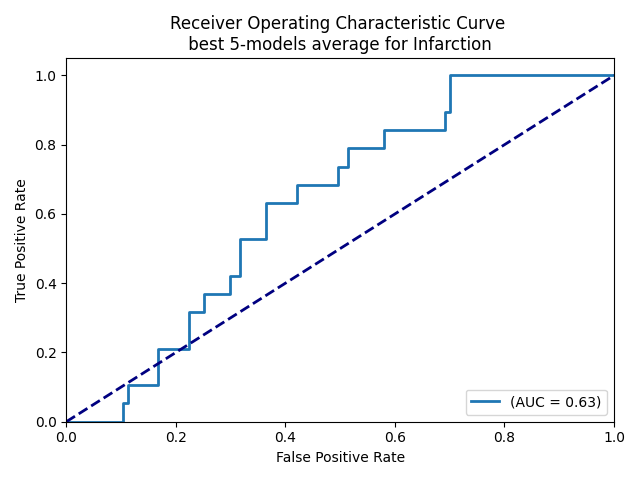
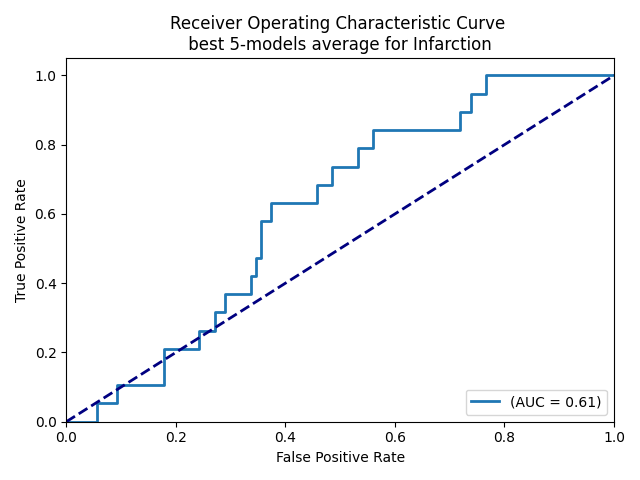
Infarction

diff --git a/predict.py b/predict.py
@@ -15,7 +15,7 @@ from model import get_model, Classifier, Classifier_Many_Layers
 
 
 if __name__ == "__main__":
-    outputs = ['Epileptic seizure', 'VasoespasmA', 'Exitus', 'ANY Vasoespasm ', 'Infarction', 'Rebleeding', 'Hydrocephalus']
+    outputs = ['Infarction', 'Rebleeding', 'Epileptic seizure', 'VasoespasmA', 'Exitus', 'ANY Vasoespasm ', 'Hydrocephalus']
     metrics_mean = pd.DataFrame(columns=["accuracy", "recall", "f1_score"])
     metrics_max = pd.DataFrame(columns=["accuracy", "recall", "f1_score"])
     for configs.target_output in outputs :
@@ -75,15 +75,15 @@ if __name__ == "__main__":
         print(f"AUC ROC (5-model ensemble average) for {configs.target_output} = {auc_roc:.4f}")
 
         # Accuracy, recall
-        predicted_labels = (mean_predictions > 0.3)
-        print(predicted_labels)
-        accuracy = accuracy_score(labels_ref, mean_predictions)
-        recall = recall_score(labels_ref, mean_predictions)
-        f1score = f1_score(labels_ref, mean_predictions)
+        predicted_labels = np.where(mean_predictions > 0.5, 1, 0)
+        accuracy = accuracy_score(labels_ref, predicted_labels)
+        recall = recall_score(labels_ref, predicted_labels)
+        f1score = f1_score(labels_ref, predicted_labels)
 
-        metrics_mean[configs.target_output] = [accuracy, recall, f1score]
+        metrics_mean.loc[configs.target_output] = [accuracy, recall, f1score]
 
         print(f"Accuracy : {accuracy}, Recall : {recall}, F1-score : {f1score}")
+        print("Metrics for mean")
         print(metrics_mean)
 
         # Take the max of predictions ------------------------------------------------------------
@@ -107,14 +107,14 @@ if __name__ == "__main__":
         print(f"AUC ROC (5-model ensemble average) for {configs.target_output} = {auc_roc:.4f}")
 
         # Accuracy, recall
-        predicted_labels = (max_predictions > 0.3).float()
-        accuracy = accuracy_score(labels_ref, mean_predictions)
-        recall = recall_score(labels_ref, mean_predictions)
-        f1score = f1_score(labels_ref, mean_predictions)
+        predicted_labels = np.where(max_predictions > 0.5, 1, 0)
+        accuracy = accuracy_score(labels_ref, predicted_labels)
+        recall = recall_score(labels_ref, predicted_labels)
+        f1score = f1_score(labels_ref, predicted_labels)
 
-        metrics_max[configs.target_output] = [accuracy, recall, f1score]
+        metrics_max.loc[configs.target_output] = [accuracy, recall, f1score]
 
         print(f"Accuracy : {accuracy}, Recall : {recall}, F1-score : {f1score}")
+        print("Metrics for max")
         print(metrics_max)
-
         

diff --git a/configs.py b/configs.py
@@ -29,7 +29,7 @@ patient_data2 = 8
 # 0-6 (num_classes = 7): 'mRSalta', 'mRS1año'
 # 0-38+ (num_classes = 3): 'DiasVM'
 # 0-108+ (num_classes = 3): 'DiasUCI'
-target_output = 'Infarction'
+target_output = 'Hydrocephalus'
 num_classes = 2
 
 # Ro run on gpu if available
